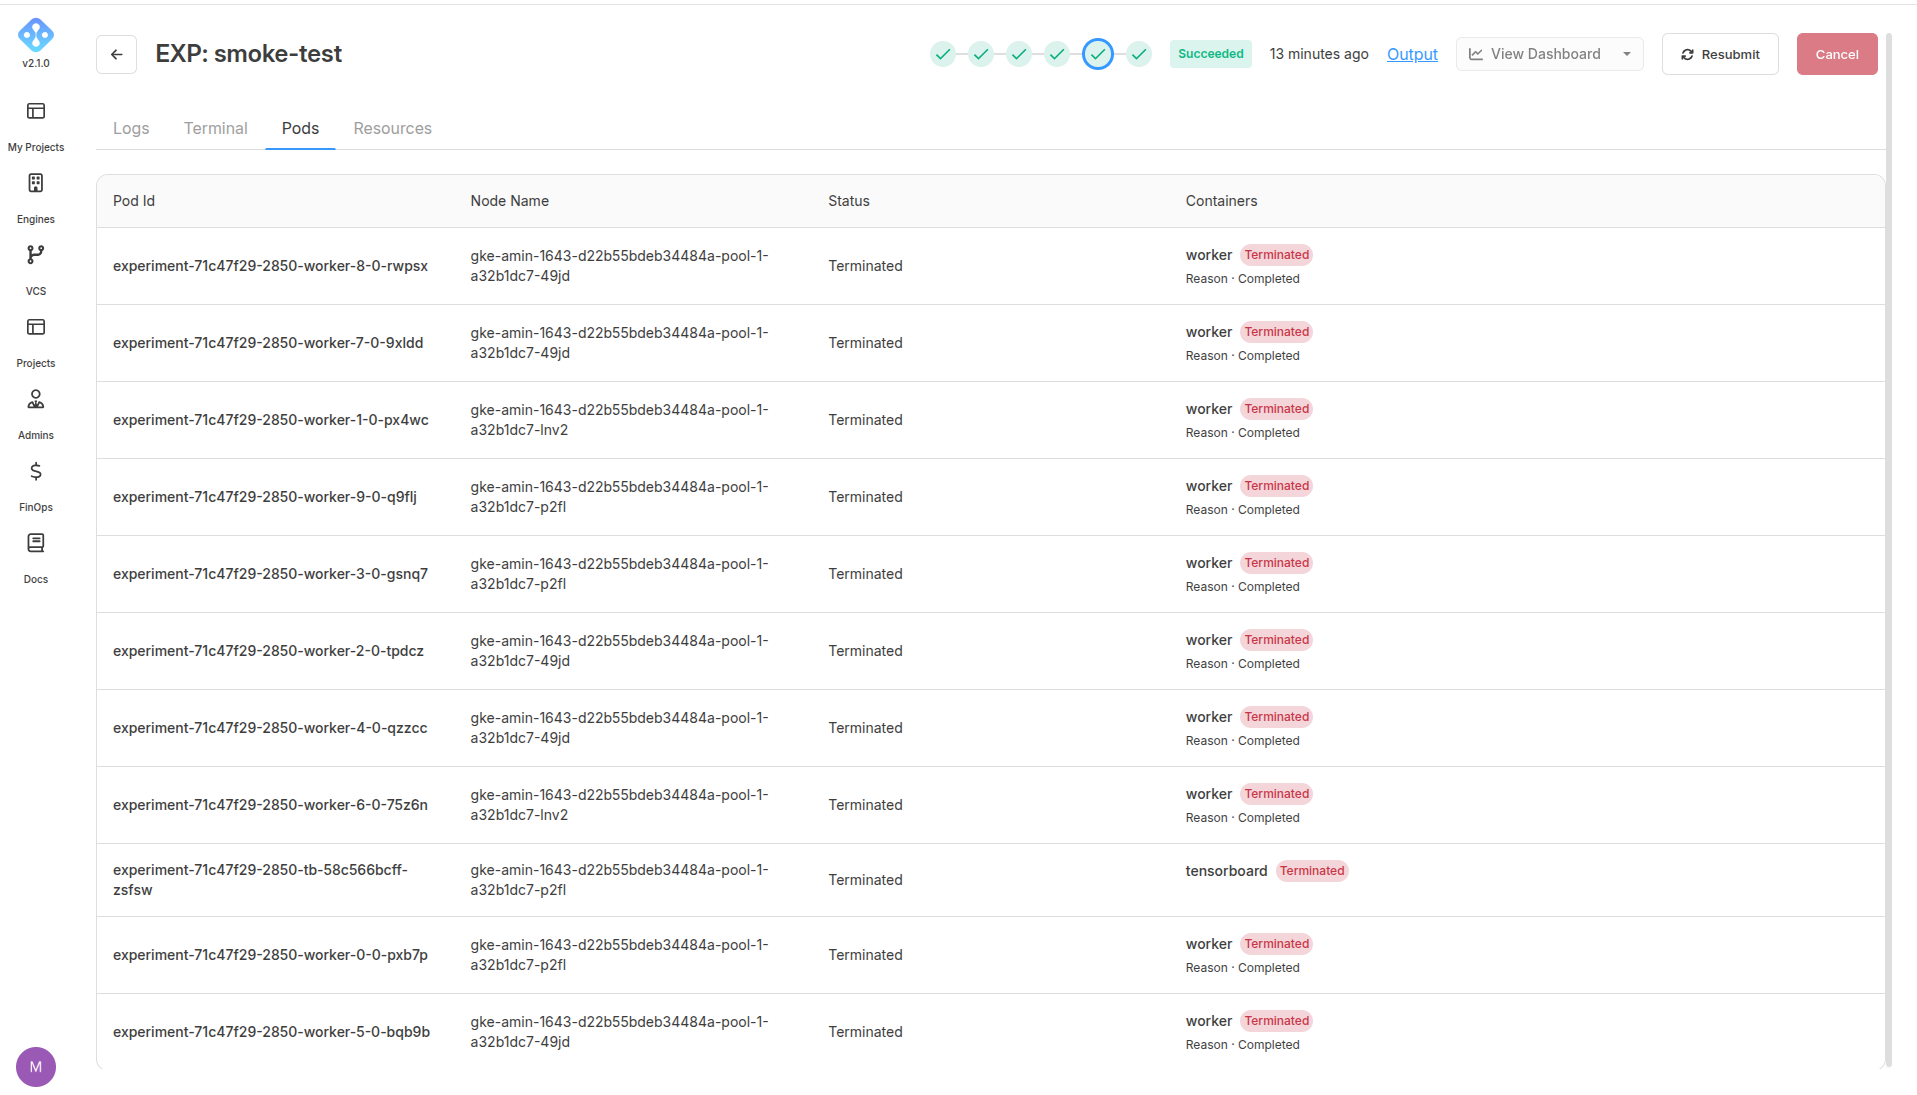
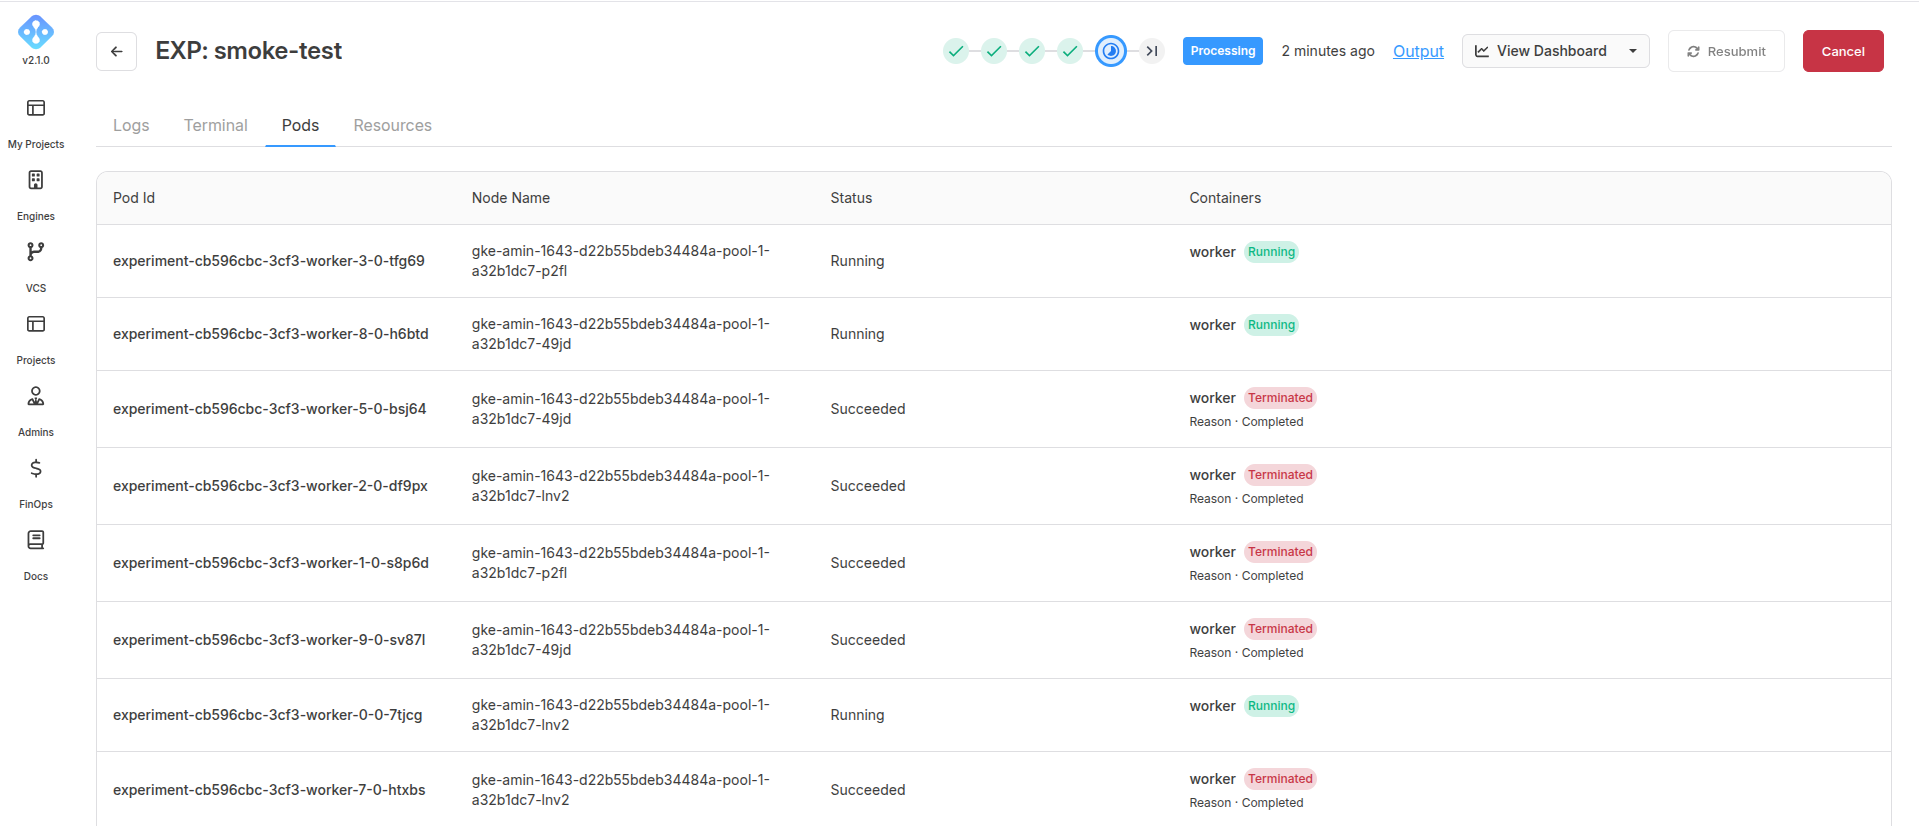
feat(jobset): retake screenshots and make the python code more dynamic

diff --git a/parallel-jobs-demo/src/main.5-1-1.py b/parallel-jobs-demo/src/main.5-1-1.py
@@ -1,7 +1,7 @@
 import os
 import time
+import random
 
-# this function is just to get all the variables for a more detailed look
 def jobsetop():
     job_completion_index = os.environ.get("JOB_COMPLETION_INDEX")
     job_index = os.environ.get("JOB_INDEX")
@@ -24,6 +24,7 @@ def get_rank() -> int:
     return jobset_global_index
 
 
+# Now we can use the ranks to define different tasks
 if __name__ == '__main__':
 
     print(f"here are the rest of the jobset variables in this container:")
@@ -31,16 +32,7 @@ if __name__ == '__main__':
 
     rank = get_rank()
 
-    print(f"here is the rank of this worker: {rank}")
-
-    rank = get_rank()
-
-    if rank == "0":
-        print("hey I am rank 0, sleeping for 30s")
-        time.sleep(30)
-    elif rank == "1":
-        print("hey I am rank 1, sleeping for 40s")
-        time.sleep(40)
-    else:
-        print(f"hey I am rank {rank} sleeping for 10s")
-        time.sleep(10)
+    start = rank * 100 + 1
+    end = start + 99
+    print(f"Actions {start} to {end}")
+    time.sleep(random.randint(10, 60))

diff --git a/parallel-jobs-demo/src/main.10-10-10.py b/parallel-jobs-demo/src/main.10-10-10.py
@@ -1,5 +1,6 @@
 import time
 import os
+import random
 
 def jobsetop():
     job_completion_index = os.environ.get("JOB_COMPLETION_INDEX")
@@ -33,25 +34,10 @@ if __name__ == '__main__':
     print(f"here are the rest of the jobset variables in this container:")
     jobsetop()
 
-    rank = get_completion()
-    index = get_index()
-    if index == "0":
-      if rank == "0":
-        print("actions 1 to 10")
-        time.sleep(10)
-      elif rank =="1":
-        print("actions 11 to 20")
-        time.sleep(10)
-    # .
-    # .
-    # .
-    if index == "1":
-      if rank == "0":
-        print("actions 201 to 210")
-        time.sleep(10)
-      elif rank =="1":
-        print("actions 211 to 220")
-        time.sleep(10)
-    # .
-    # .
-    # .
+    rank = int(get_completion())
+    index = int(get_index())
+    start = rank * 100
+    completion_start = index * 10 + 1
+    completion_end= completion_start + 9
+    print(f"Actions {start+completion_start} to {start+completion_end}")
+    time.sleep(random.randint(10, 60))

diff --git a/parallel-jobs-demo/src/main.10-2-10.py b/parallel-jobs-demo/src/main.10-2-10.py
@@ -1,5 +1,6 @@
 import time
 import os
+import random
 
 def jobsetop():
     job_completion_index = os.environ.get("JOB_COMPLETION_INDEX")
@@ -33,25 +34,10 @@ if __name__ == '__main__':
     print(f"here are the rest of the jobset variables in this container:")
     jobsetop()
 
-    rank = get_completion()
-    index = get_index()
-    if index == "0":
-      if rank == "0":
-        print("actions 1 to 10")
-        time.sleep(10)
-      elif rank =="1":
-        print("actions 11 to 20")
-        time.sleep(10)
-    # .
-    # .
-    # .
-    if index == "1":
-      if rank == "0":
-        print("actions 201 to 210")
-        time.sleep(10)
-      elif rank =="1":
-        print("actions 211 to 220")
-        time.sleep(10)
-    # .
-    # .
-    # .
+    rank = int(get_completion())
+    index = int(get_index())
+    start = rank * 100
+    completion_start = index * 10 + 1
+    completion_end= completion_start + 9
+    print(f"Actions {start+completion_start} to {start+completion_end}")
+    time.sleep(random.randint(10, 60))

diff --git a/parallel-jobs-demo/src/main.wkr-heavy-1-1-1.py b/parallel-jobs-demo/src/main.wkr-heavy-1-1-1.py
@@ -1,5 +1,6 @@
 import time
 import os
+import random
 
 def jobsetop():
     job_completion_index = os.environ.get("JOB_COMPLETION_INDEX")
@@ -34,20 +35,11 @@ if __name__ == '__main__':
     jobsetop()
 
     type_of_job = get_type()
-    rank = get_rank()
+    rank = int(get_rank())
     if type_of_job == "worker-heavy":
-      print("actions 1 to 300")
-    elif type_of_job == "worker":
-      if rank == "0":
-          print("actions 301 to 400")
-          time.sleep(30)
-      elif rank == "1":
-          print("actions 401 to 500")
-          time.sleep(40)
-    #   .
-    #   .
-    #   .
-
-      else:
-          print(f"actions 901 to 1000")
-          time.sleep(10)
+      print("Actions 1 to 300")
+    else:
+      start = rank * 100 + 1
+      end = start + 99
+      print(f"Actions {start} to {end}")
+      time.sleep(random.randint(10, 60))

diff --git a/parallel-jobs-demo/src/main.10-1-1.py b/parallel-jobs-demo/src/main.10-1-1.py
@@ -1,5 +1,6 @@
 import os
 import time
+import random
 
 def jobsetop():
     job_completion_index = os.environ.get("JOB_COMPLETION_INDEX")
@@ -31,19 +32,7 @@ if __name__ == '__main__':
 
     rank = get_rank()
 
-    print(f"here is the rank of this worker: {rank}")
-
-    print("actions for this worker")
-    if rank == "0":
-        print("actions 1 to 100")
-        time.sleep(30)
-    elif rank == "1":
-        print("actions 101 to 200")
-        time.sleep(40)
-    # .
-    # .
-    # .
-    # rest of the if conditions
-    else:
-        print("actions 901 to 1000")
-        time.sleep(10)
+    start = rank * 100 + 1
+    end = start + 99
+    print(f"Actions {start} to {end}")
+    time.sleep(random.randint(10, 60))

diff --git a/parallel-jobs-demo/scenarios/scenario-3.md b/parallel-jobs-demo/scenarios/scenario-3.md
@@ -46,6 +46,7 @@ now the code could look like this (you can be more imaginative with using the en
 ```python
 import time
 import os
+import random
 
 def jobsetop():
     job_completion_index = os.environ.get("JOB_COMPLETION_INDEX")
@@ -79,28 +80,14 @@ if __name__ == '__main__':
     print(f"here are the rest of the jobset variables in this container:")
     jobsetop()
 
-    rank = get_completion()
-    index = get_index()
-    if index == "0":
-      if rank == "0":
-        print("actions 1 to 10")
-        time.sleep(10)
-      elif rank =="1":
-        print("actions 11 to 20")
-        time.sleep(10)
-    # .
-    # .
-    # .
-    if index == "1":
-      if rank == "0":
-        print("actions 201 to 210")
-        time.sleep(10)
-      elif rank =="1":
-        print("actions 211 to 220")
-        time.sleep(10)
-    # .
-    # .
-    # .
+    rank = int(get_completion())
+    index = int(get_index())
+    start = rank * 100
+    completion_start = index * 10 + 1
+    completion_end= completion_start + 9
+    print(f"Actions {start+completion_start} to {start+completion_end}")
+    time.sleep(random.randint(10, 60))
+
 ```
 
 Below you can see the pods in this scenario succeed
@@ -109,10 +96,10 @@ Below you can see the pods in this scenario succeed
 
 and now the logs of a few of the pods
 
-worker-0-1:
+worker-8-5:
 
-![worker-0-1](screenshots/scenario3-0-1.png)
+![worker-0-1](screenshots/scenario3-8-5.png)
 
-worker-1-1:
+worker-3-9:
 
 ![worker-1-1](screenshots/scenario3-1-1.png)

diff --git a/parallel-jobs-demo/scenarios/scenario-2.md b/parallel-jobs-demo/scenarios/scenario-2.md
@@ -43,6 +43,7 @@ But in this scenario because we have two different types we cannot necessarily r
 ```python
 import time
 import os
+import random
 
 def jobsetop():
     job_completion_index = os.environ.get("JOB_COMPLETION_INDEX")
@@ -77,23 +78,15 @@ if __name__ == '__main__':
     jobsetop()
 
     type_of_job = get_type()
-    rank = get_rank()
+    rank = int(get_rank())
     if type_of_job == "worker-heavy":
-      print("actions 1 to 300")
-    elif type_of_job == "worker":
-      if rank == "0":
-          print("actions 301 to 400")
-          time.sleep(30)
-      elif rank == "1":
-          print("actions 401 to 500")
-          time.sleep(40)
-    #   .
-    #   .
-    #   .
+      print("Actions 1 to 300")
+    else:
+      start = rank * 100 + 1
+      end = start + 99
+      print(f"Actions {start} to {end}")
+      time.sleep(random.randint(10, 60))
 
-      else:
-          print(f"actions 901 to 1000")
-          time.sleep(10)
 ```
 Below you can see the pods in this scenario succeed
 
@@ -105,6 +98,6 @@ worker-heavy-0-0:
 
 ![worker-heavy-0-0](screenshots/scenario2-0-0.png)
 
-worker-0-0:
+worker-5-0:
 
-![worker-0-0](screenshots/scenario2-1-0.png)
+![worker-0-0](screenshots/scenario2-5-0.png)

diff --git a/parallel-jobs-demo/scenarios/scenario-1.md b/parallel-jobs-demo/scenarios/scenario-1.md
@@ -37,6 +37,7 @@ and then the following in the code:
 ```python
 import os
 import time
+import random
 
 def jobsetop():
     job_completion_index = os.environ.get("JOB_COMPLETION_INDEX")
@@ -68,22 +69,10 @@ if __name__ == '__main__':
 
     rank = get_rank()
 
-    print(f"here is the rank of this worker: {rank}")
-
-    print("actions for this worker")
-    if rank == "0":
-        print("actions 1 to 100")
-        time.sleep(30)
-    elif rank == "1":
-        print("actions 101 to 200")
-        time.sleep(40)
-    # .
-    # .
-    # .
-    # rest of the if conditions
-    else:
-        print("actions 901 to 1000")
-        time.sleep(10)
+    start = rank * 100 + 1
+    end = start + 99
+    print(f"Actions {start} to {end}")
+    time.sleep(random.randint(10, 60))
 ```
 Below you can see the pods succeeded on AIchor:
 
@@ -91,10 +80,10 @@ Below you can see the pods succeeded on AIchor:
 
 and now the logs of a few of the pods
 
-worker-0-0:
+worker-2-0:
 
-![worker-0-0](screenshots/scenario1-0-0.png)
+![worker-2-0](screenshots/scenario1-2-0.png)
 
-worker-1-0:
+worker-8-0:
 
-![worker-1-0](screenshots/scenario1-1-0.png)
+![worker-8-0](screenshots/scenario1-8-0.png)
